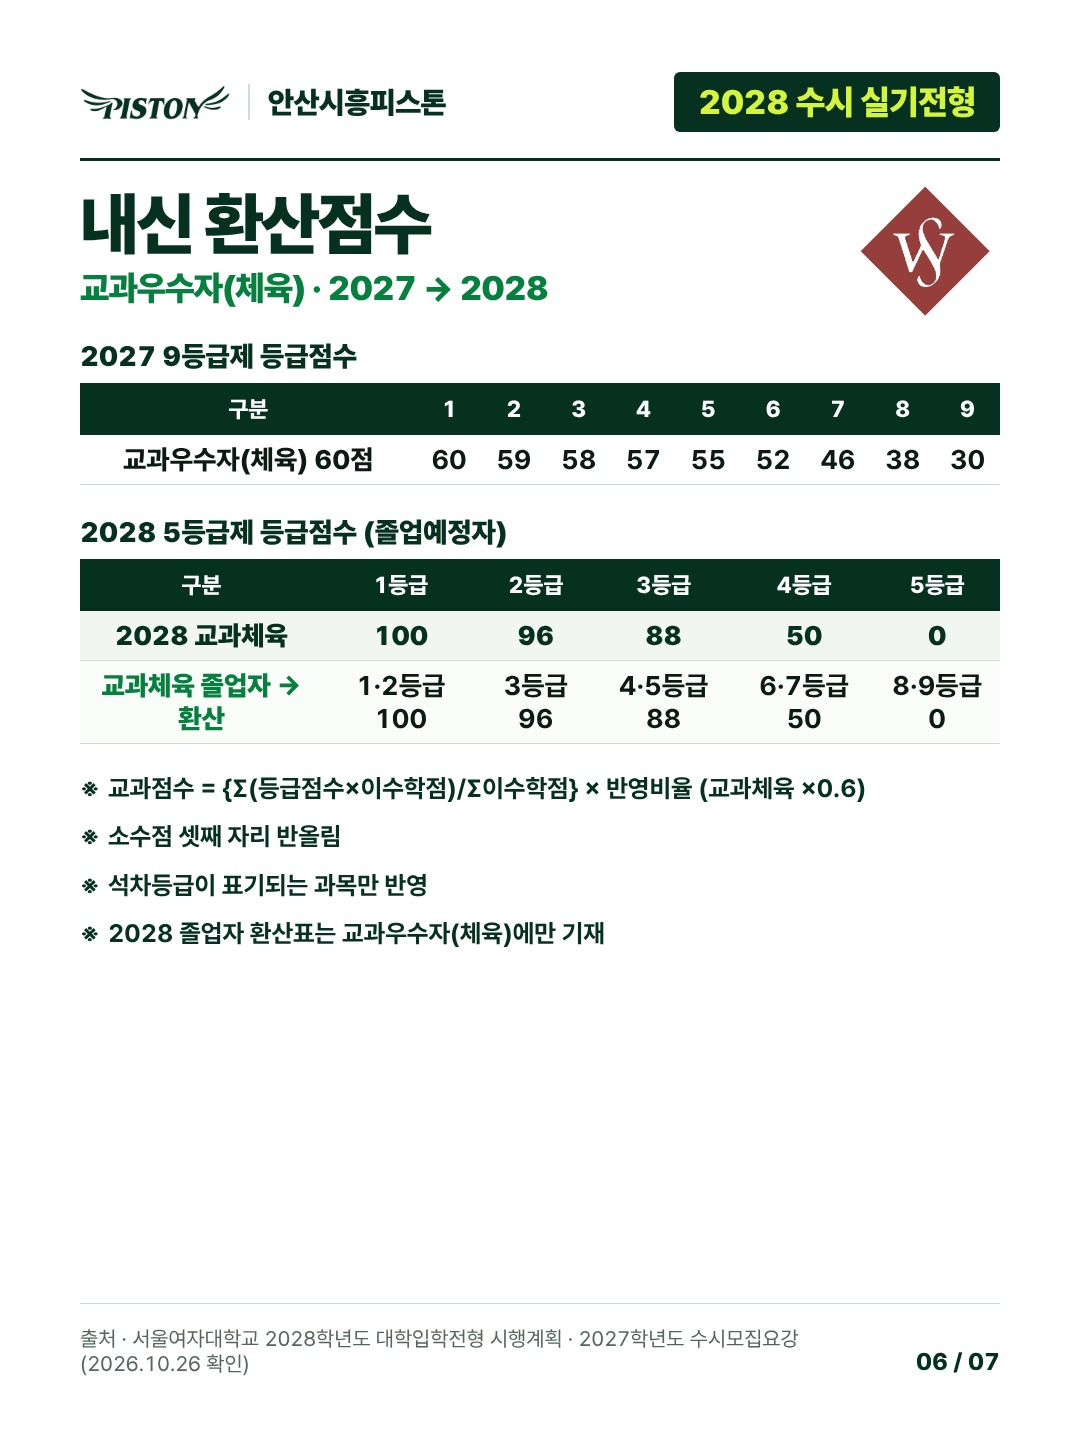
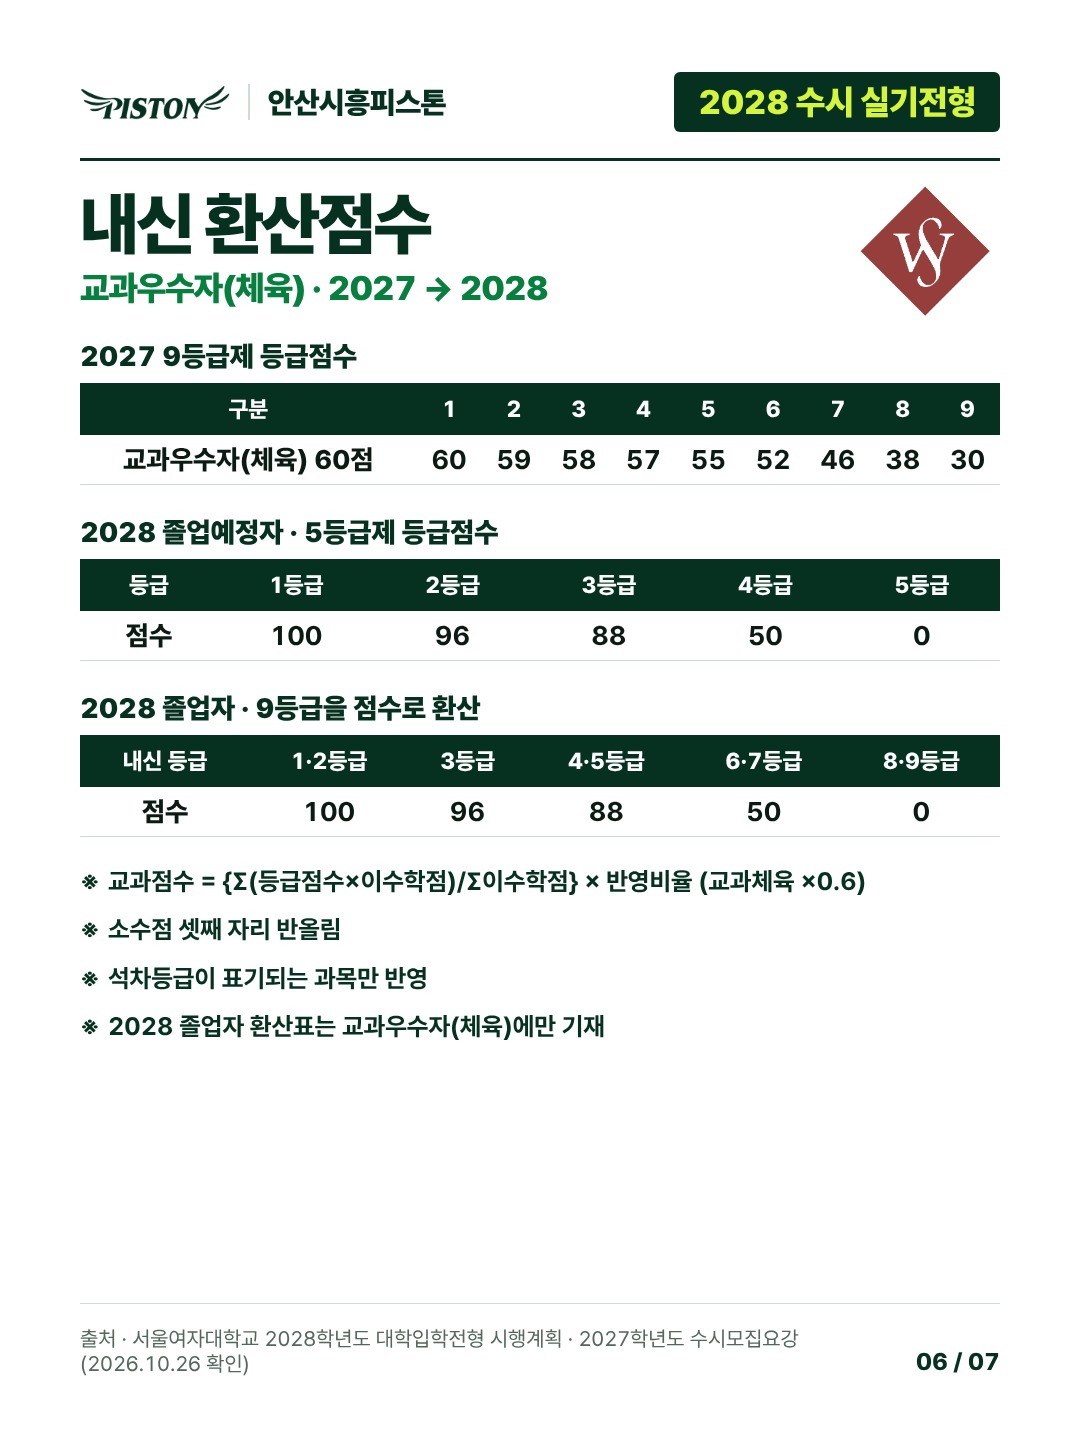
서울여대 졸업자 환산표 분리
Claude-Session: https://claude.ai/code/session_01EGTn7G8nWP1yv5M2jqmoFb

Changed region(s): [[0.0611, 0.3438, 0.9472, 0.7188]]

diff --git a/social/out/swu-susi/blog.md b/social/out/swu-susi/blog.md
@@ -79,12 +79,17 @@
 | --- | --- | --- | --- | --- | --- | --- | --- | --- | --- |
 | 교과우수자(체육) 60점 | 60 | 59 | 58 | 57 | 55 | 52 | 46 | 38 | 30 |
 
-**2028 5등급제 등급점수 (졸업예정자)**
+**2028 졸업예정자 · 5등급제 등급점수**
 
-| 구분 | 1등급 | 2등급 | 3등급 | 4등급 | 5등급 |
+| 등급 | 1등급 | 2등급 | 3등급 | 4등급 | 5등급 |
 | --- | --- | --- | --- | --- | --- |
-| 2028 교과체육 | 100 | 96 | 88 | 50 | 0 |
-| 교과체육 졸업자 → 환산 | 1·2등급 100 | 3등급 96 | 4·5등급 88 | 6·7등급 50 | 8·9등급 0 |
+| 점수 | 100 | 96 | 88 | 50 | 0 |
+
+**2028 졸업자 · 9등급을 점수로 환산**
+
+| 내신 등급 | 1·2등급 | 3등급 | 4·5등급 | 6·7등급 | 8·9등급 |
+| --- | --- | --- | --- | --- | --- |
+| 점수 | 100 | 96 | 88 | 50 | 0 |
 
 ※ 교과점수 = {Σ(등급점수×이수학점)/Σ이수학점} × 반영비율 (교과체육 ×0.6) · 소수점 셋째 자리 반올림
 ※ 석차등급이 표기되는 과목만 반영 · 2028 졸업자 환산표는 교과우수자(체육)에만 기재
